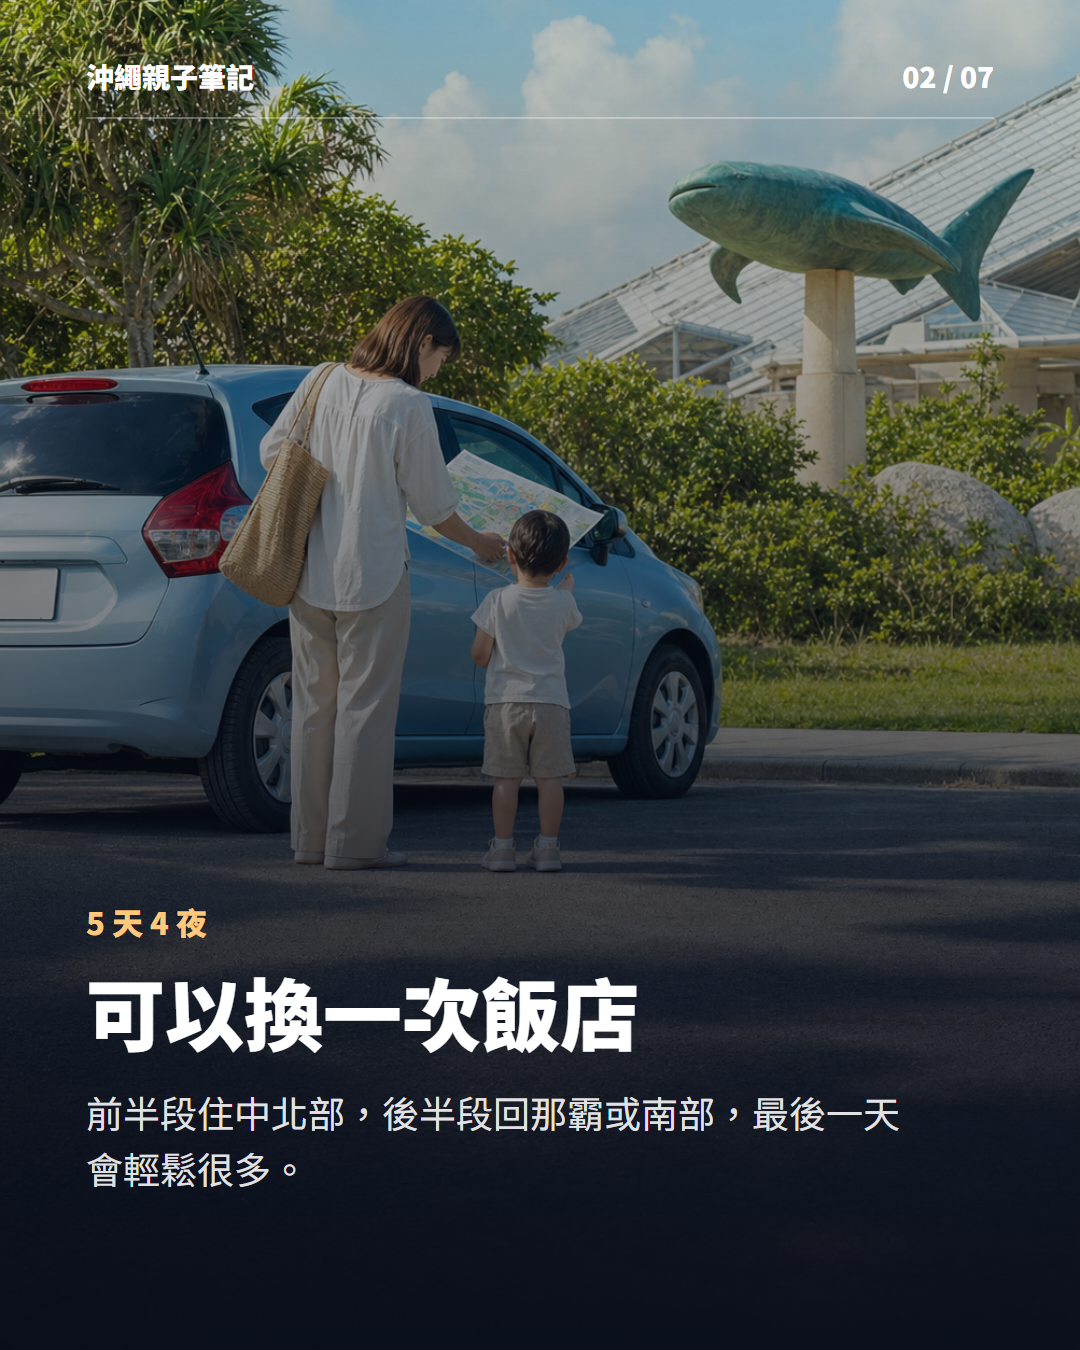
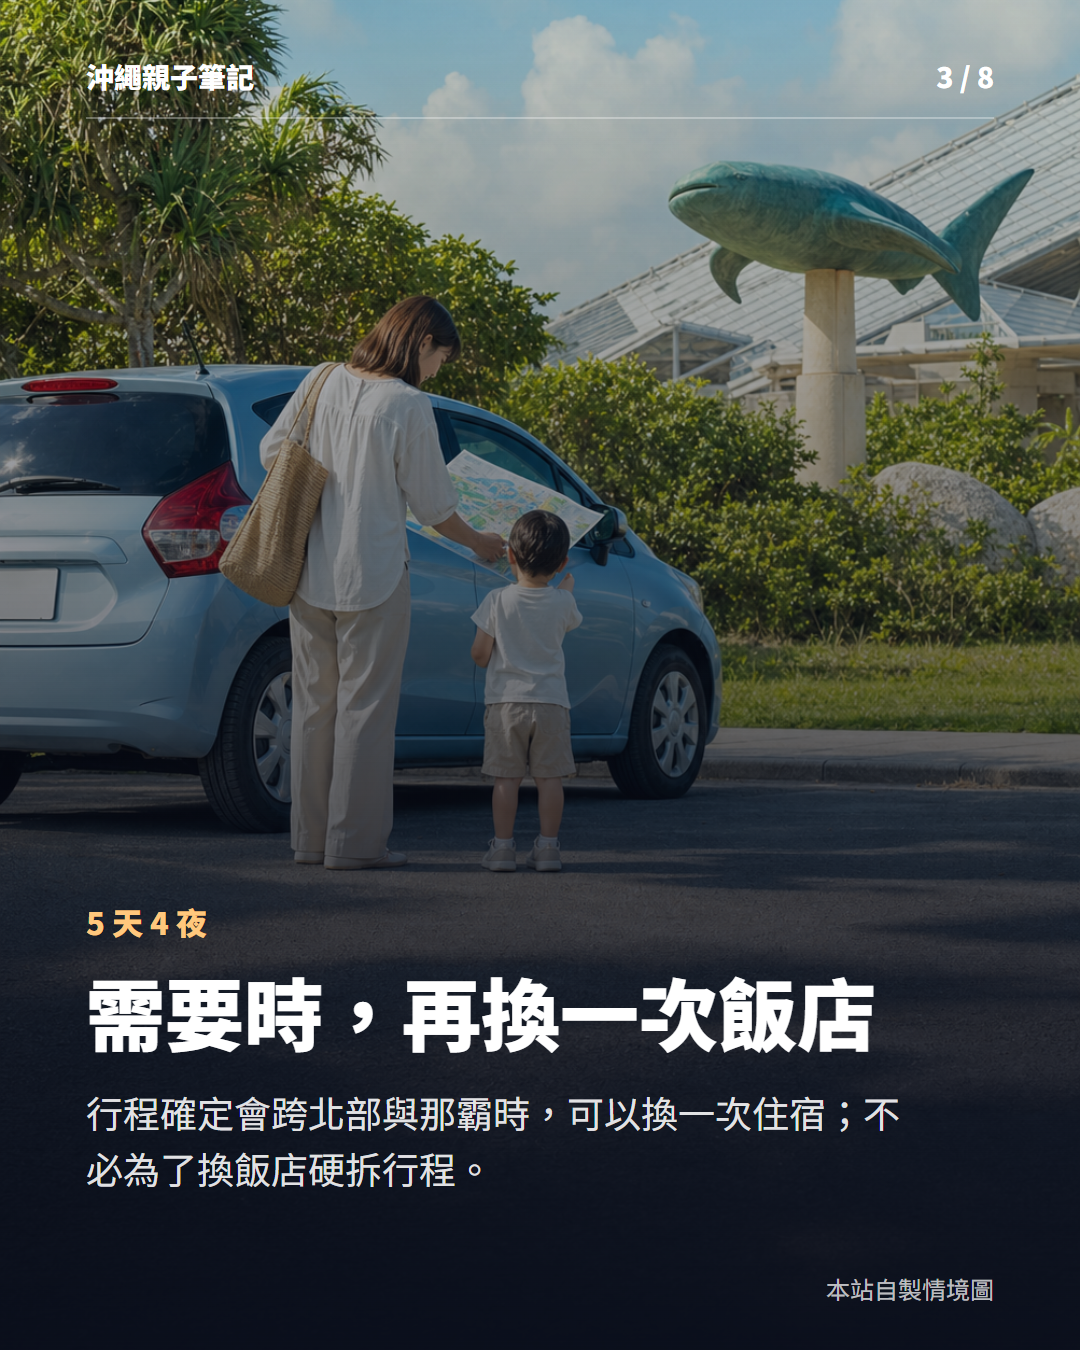
Publish mobile plan and carousel preview

diff --git a/public/previews/first-okinawa-where-to-stay-carousel/index.html b/public/previews/first-okinawa-where-to-stay-carousel/index.html
@@ -1,1 +1,87 @@
-<!doctype html><html lang="zh-Hant"><head><meta charset="utf-8"><meta name="viewport" content="width=device-width,initial-scale=1"><meta name="robots" content="noindex,nofollow,noarchive"><title>第一次沖繩住宿輪播預覽</title><style>*{box-sizing:border-box}body{margin:0;background:#1e2639;color:#fff;font-family:"Microsoft JhengHei",sans-serif}main{max-width:1240px;margin:auto;padding:28px 16px 48px}h1{font-size:clamp(24px,4vw,38px);margin:0 0 8px}p{color:#dbe6ec;line-height:1.6;margin:0 0 28px}.grid{display:grid;grid-template-columns:repeat(3,minmax(0,1fr));gap:18px}figure{margin:0;border-radius:12px;overflow:hidden;background:#24345a}img{display:block;width:100%;height:auto}figcaption{padding:10px 12px;font-size:14px;color:#dbe6ec}@media(max-width:680px){main{padding:18px 12px 32px}.grid{grid-template-columns:1fr;gap:14px}}</style></head><body><main><h1>第一次沖繩住宿怎麼排</h1><p>8 張輪播公開預覽；手機為單欄，桌機為三欄。</p><section class="grid" aria-label="8 張輪播圖"><figure><img src="/previews/first-okinawa-where-to-stay-carousel/01.png" alt="第 1 張：住哪裡才不會每天趕？"><figcaption>01 / 08</figcaption></figure><figure><img src="/previews/first-okinawa-where-to-stay-carousel/02.png" alt="第 2 張：4 天 3 夜"><figcaption>02 / 08</figcaption></figure><figure><img src="/previews/first-okinawa-where-to-stay-carousel/03.png" alt="第 3 張：5 天 4 夜"><figcaption>03 / 08</figcaption></figure><figure><img src="/previews/first-okinawa-where-to-stay-carousel/04.png" alt="第 4 張：區域快速判斷"><figcaption>04 / 08</figcaption></figure><figure><img src="/previews/first-okinawa-where-to-stay-carousel/05.png" alt="第 5 張：房間空間"><figcaption>05 / 08</figcaption></figure><figure><img src="/previews/first-okinawa-where-to-stay-carousel/06.png" alt="第 6 張：本部町住一晚"><figcaption>06 / 08</figcaption></figure><figure><img src="/previews/first-okinawa-where-to-stay-carousel/07.png" alt="第 7 張：收藏清單"><figcaption>07 / 08</figcaption></figure><figure><img src="/previews/first-okinawa-where-to-stay-carousel/08.png" alt="第 8 張：網站 CTA"><figcaption>08 / 08</figcaption></figure></section></main></body></html>
+<!doctype html>
+<html lang="zh-Hant">
+<head>
+  <meta charset="utf-8">
+  <meta name="viewport" content="width=device-width,initial-scale=1">
+  <meta name="robots" content="noindex,nofollow,noarchive">
+  <title>90 天計畫與住宿輪播預覽</title>
+  <style>
+    * { box-sizing: border-box; }
+    body { margin: 0; background: #f6f4ef; color: #18222b; font-family: "Microsoft JhengHei", system-ui, sans-serif; }
+    main { max-width: 1180px; margin: auto; padding: 28px 18px 56px; }
+    h1 { margin: 0; font-size: clamp(28px, 5vw, 44px); line-height: 1.25; }
+    h2 { margin: 42px 0 16px; font-size: clamp(22px, 4vw, 30px); }
+    h3 { margin: 0 0 8px; font-size: 19px; }
+    p { margin: 8px 0; line-height: 1.75; }
+    .status { display: inline-block; margin-top: 14px; padding: 7px 10px; background: #fff1d6; color: #754800; border-radius: 6px; font-weight: 700; }
+    .lead { max-width: 760px; color: #48545e; }
+    .phases { display: grid; grid-template-columns: repeat(3, minmax(0, 1fr)); gap: 16px; margin-top: 22px; }
+    .phase { padding: 18px; border-top: 4px solid #d9703d; background: #fff; box-shadow: 0 6px 20px rgba(24,34,43,.07); }
+    .phase strong { color: #a44421; }
+    .phase ul { margin: 12px 0 0; padding-left: 20px; line-height: 1.75; }
+    .weekly { margin-top: 18px; padding: 16px 18px; border-left: 4px solid #2d6a73; background: #eaf3f2; line-height: 1.8; }
+    .grid { display: grid; grid-template-columns: repeat(3, minmax(0, 1fr)); gap: 18px; }
+    figure { margin: 0; overflow: hidden; background: #fff; box-shadow: 0 6px 20px rgba(24,34,43,.08); }
+    img { display: block; width: 100%; height: auto; }
+    figcaption { padding: 10px 12px; color: #52606b; font-size: 14px; }
+    @media (max-width: 720px) {
+      main { padding: 20px 12px 40px; }
+      .phases, .grid { grid-template-columns: 1fr; }
+      .phase { padding: 16px; }
+      h2 { margin-top: 34px; }
+    }
+  </style>
+</head>
+<body>
+  <main>
+    <h1>沖繩親子旅遊內容 90 天計畫</h1>
+    <p class="lead">目標不是只追文章數，而是先找出真正有人搜尋、願意收藏，也可能點擊票券、住宿或用品連結的內容。</p>
+    <span class="status">預覽版，尚未發布至社群</span>
+
+    <section class="phases" aria-label="90 天三階段計畫">
+      <article class="phase">
+        <h3><strong>第 1-30 天</strong> 找出有效主題</h3>
+        <ul>
+          <li>每週更新 2 篇部落格文章</li>
+          <li>每篇延伸 1 組輪播與短貼文</li>
+          <li>優先做自駕、住宿、景點票券與親子痛點</li>
+          <li>每週檢查 Search Console、GA4 與社群數據</li>
+        </ul>
+      </article>
+      <article class="phase">
+        <h3><strong>第 31-60 天</strong> 放大有反應的內容</h3>
+        <ul>
+          <li>加強已有曝光但點擊率偏低的文章</li>
+          <li>將有效主題延伸成系列文章</li>
+          <li>FB、IG、Threads 採不同角度，不重複貼同一段</li>
+          <li>分潤連結只放在能解決問題的位置</li>
+        </ul>
+      </article>
+      <article class="phase">
+        <h3><strong>第 61-90 天</strong> 建立轉換路徑</h3>
+        <ul>
+          <li>整理住宿、票券與旅行用品比較頁</li>
+          <li>測試文章內按鈕、圖片與操作教學</li>
+          <li>準備 LINE 或電子報承接回訪讀者</li>
+          <li>保留有效做法，停止沒有數據支持的工作</li>
+        </ul>
+      </article>
+    </section>
+
+    <div class="weekly"><strong>每週固定檢查：</strong>Google 曝光與點擊、文章自然流量、社群觸及與收藏、分潤連結點擊。連續 4 週沒有反應的題型就調整，不再憑感覺一直做。</div>
+
+    <h2>本週住宿輪播：第一次去沖繩住哪裡？</h2>
+    <p class="lead">手機往下滑可依序看完 8 張。這是今天修正後的版本，確認後才會安排發布。</p>
+    <section class="grid" aria-label="8 張住宿輪播圖">
+      <figure><img src="/previews/first-okinawa-where-to-stay-carousel/01.png?v=20260804" alt="第 1 張：第一次去沖繩，住哪裡才不會每天趕"><figcaption>01 / 08</figcaption></figure>
+      <figure><img src="/previews/first-okinawa-where-to-stay-carousel/02.png?v=20260804" alt="第 2 張：四天三夜住宿安排"><figcaption>02 / 08</figcaption></figure>
+      <figure><img src="/previews/first-okinawa-where-to-stay-carousel/03.png?v=20260804" alt="第 3 張：五天四夜住宿安排"><figcaption>03 / 08</figcaption></figure>
+      <figure><img src="/previews/first-okinawa-where-to-stay-carousel/04.png?v=20260804" alt="第 4 張：先看三個區域"><figcaption>04 / 08</figcaption></figure>
+      <figure><img src="/previews/first-okinawa-where-to-stay-carousel/05.png?v=20260804" alt="第 5 張：親子住宿別只看房價"><figcaption>05 / 08</figcaption></figure>
+      <figure><img src="/previews/first-okinawa-where-to-stay-carousel/06.png?v=20260804" alt="第 6 張：北部排一晚比較輕鬆"><figcaption>06 / 08</figcaption></figure>
+      <figure><img src="/previews/first-okinawa-where-to-stay-carousel/07.png?v=20260804" alt="第 7 張：訂房前檢查清單"><figcaption>07 / 08</figcaption></figure>
+      <figure><img src="/previews/first-okinawa-where-to-stay-carousel/08.png?v=20260804" alt="第 8 張：完整住宿整理在網站"><figcaption>08 / 08</figcaption></figure>
+    </section>
+  </main>
+</body>
+</html>
